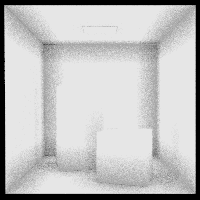
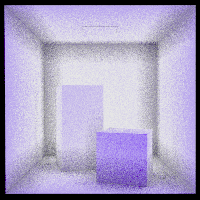
Still creating photon map

diff --git a/src/ray/brdf/BSDF.java b/src/ray/brdf/BSDF.java
@@ -1,0 +1,54 @@
+package ray.bsdf;
+
+import ray.math.Frame3;
+import ray.math.Point2;
+import ray.math.Vector3;
+import ray.misc.Color;
+
+/**
+* Really just need transmittance effects but I am too lazy to undate the comments bellow.
+*
+ * A BSDF gives information about the directional scattering properties of a
+ * surface.  It is a function of two directions, and it is generally used by integrating
+ * over the hemisphere wrt. one direction while keeping the other direction fixed.
+ * For that usage, this interface has the standard form for a function that will be used
+ * in importance sampling -- the samples that are chosen are values of one direction for
+ * a fixed value of the other direction.  Because of reciprocity it does not matter which
+ * direction is incident and which is reflected.
+ * 
+ * @author srm
+ *
+ */
+public interface BSDF {
+    
+    /**
+     * Evaluate the BRDF.  Must be reciprocal (invariant to swapping arguments).
+     * @param frame The surface frame
+     * @param incDir The incident direction
+     * @param reflDir The reflected direction
+     * @param outBRDFValue The value of the BRDF
+     */
+    public void evaluate(Frame3 frame, Vector3 incDir, Vector3 reflDir, Color outBRDFValue);
+    
+    /**
+     * Generate a sample on the hemisphere drawn from a distribution suitable for 
+     * importance sampling this BRDF.  The probability density is reported with respect
+     * to the solid angle measure.
+     * @param frame The surface frame
+     * @param fixedDir The fixed argument of the BRDF
+     * @param outDir The random sample for the variable argument
+     * @param outWeight The weight for an unbiased estimate (value / pdf)
+     */
+    public void generate(Frame3 frame, Vector3 fixedDir, Vector3 outDir, 
+                         Point2 seed, Color outWeight);
+    
+   /**
+     * Evaluate the PDF used by generate(), with respect to the solid angle measure.
+     * @param frame The surface frame
+     * @param fixedDir The fixed argument of the BRDF
+     * @param dir The variable argument
+     * @return The pdf of generate() choosing <dir> if given <fixedDir>
+     */
+    public double pdf(Frame3 frame, Vector3 fixedDir, Vector3 dir);
+
+}

diff --git a/src/ray/renderer/PhotonMapRenderer.java b/src/ray/renderer/PhotonMapRenderer.java
@@ -15,6 +15,7 @@ import ray.misc.Ray;
 import ray.surface.Surface;
 import ray.misc.Scene;
 import ray.sampling.SampleGenerator;
+import ray.material.Material;
 
 public class PhotonMapRenderer implements Renderer {
 
@@ -32,7 +33,9 @@ public class PhotonMapRenderer implements Renderer {
 	public boolean usesPhotons(){
 		return true;
 	}
-
+	/**
+	* Photon tracing pass.
+	*/
 	@Override
 	public void generatePhotonMap(Scene scene){ 
 		//Get all the light sources. Point lights and luminaires
@@ -84,21 +87,29 @@ public class PhotonMapRenderer implements Renderer {
 
 		if(scene.getFirstIntersection(iRec,ray)){
 
+			Material iMat = iRec.surface.getMaterial();
+
+			//The output radiance is a function 
+			//Check if emmiter.
+			//?
+
 			//Russian Roulette to determine wheather photon undergoes
 			// absorption, reflection - specular or diffuse- or transmision.
 			double russianRouletteRV = randGenerator.nextDouble();
 
-			//Absorpion
+			//Diffuse reflection
 
 			//Specular reflection
 
-			//Diffuse reflection
-
 			//Transmission
+
+			//Absorpion
 		}
 		//Ray did not meet any object. Do nothing.
 	}
-
+	/**
+	* Rendering pass
+	*/
 	@Override
 	public void rayRadiance(Scene scene, Ray ray, SampleGenerator sampler,
 			int sampleIndex, Color outColor) {
@@ -112,6 +123,9 @@ public class PhotonMapRenderer implements Renderer {
 			Point2 directSeed = new Point2();
             sampler.sample(1, sampleIndex, directSeed);     // this random variable is for incident direction
             
+            Material iMat = iRec.surface.getMaterial();
+            //Color oColor = iMat.getBRDF(iRec).getDiffuseReflectance();
+
             // Generate a random incident direction
             Vector3 incDir = new Vector3();
             Geometry.squareToHemisphere(directSeed, incDir);
@@ -121,7 +135,8 @@ public class PhotonMapRenderer implements Renderer {
             shadowRay.makeOffsetRay();
             
             if ( !scene.getFirstIntersection(iRec, shadowRay) ) {
-            	outColor.set(0.8);
+
+            	outColor.set(0.2,0.0,0.9);
             } else {
             	// determine the length of the shadow ray
                 Vector3 exts = scene.getBoundingBoxExtents();

diff --git a/src/ray/brdf/Lambertian.java b/src/ray/brdf/Lambertian.java
@@ -14,23 +14,34 @@ import ray.misc.Color;
 public class Lambertian implements BRDF {
     
     // The material's diffuse reflectance (the fraction of incident irradiance reflected, for any incident distribution).
-    Color reflectance = new Color(0.5, 0.5, 0.5);
+    private Color diffuseReflectance = new Color(0.5, 0.5, 0.5);
+    private Color specularReflectance = new Color(0.5, 0.5, 0.5);
+    private Color transmittance = new Color(0.0, 0.0, 0.0);
     
     // For the benefit of the parser
     public Lambertian() { }
-    public void setReflectance(Color reflectance) { this.reflectance.set(reflectance); }
+    public void setReflectance(Color reflectance) { 
+        this.diffuseReflectance.set(reflectance); 
+        this.specularReflectance.set(reflectance); 
+        this.transmittance.set(reflectance); 
+    }
+    public Color getDiffuseReflectance(){return this.diffuseReflectance;}
+
+    public void setDiffuseReflectance(Color reflectance) { this.diffuseReflectance.set(reflectance); }
+    public void setSpecularReflectance(Color reflectance) { this.specularReflectance.set(reflectance); }
+    public void setTransmittance(Color reflectance) { this.transmittance.set(reflectance); }
     
-    public Lambertian(Color reflectance) { this.reflectance.set(reflectance); }
+    public Lambertian(Color reflectance) { this.diffuseReflectance.set(reflectance); }
 
     public void evaluate(Frame3 frame, Vector3 incDir, Vector3 reflDir, Color outBRDFValue) {
-        outBRDFValue.set(reflectance);
+        outBRDFValue.set(diffuseReflectance);
         outBRDFValue.scale(1 / Math.PI);
     }
 
     public void generate(Frame3 frame, Vector3 fixedDir, Vector3 dir, Point2 seed, Color outWeight) {
         Geometry.squareToPSAHemisphere(seed, dir);
         frame.frameToCanonical(dir);
-        outWeight.set(reflectance);
+        outWeight.set(diffuseReflectance);
     }
 
     /**
